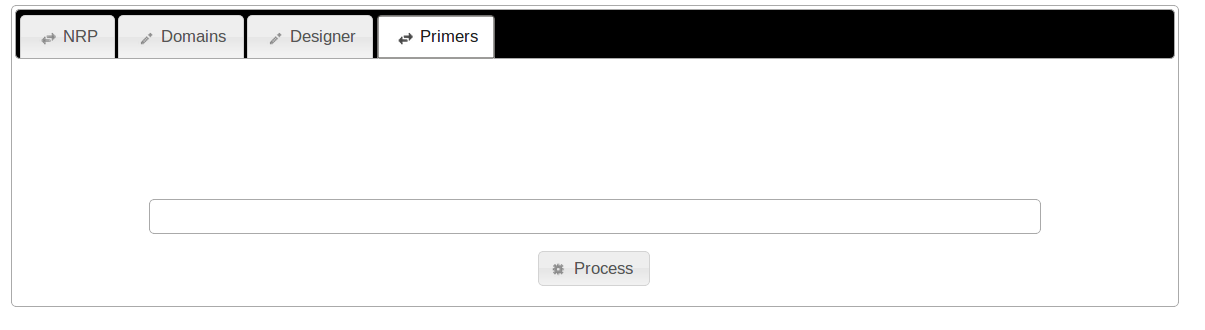
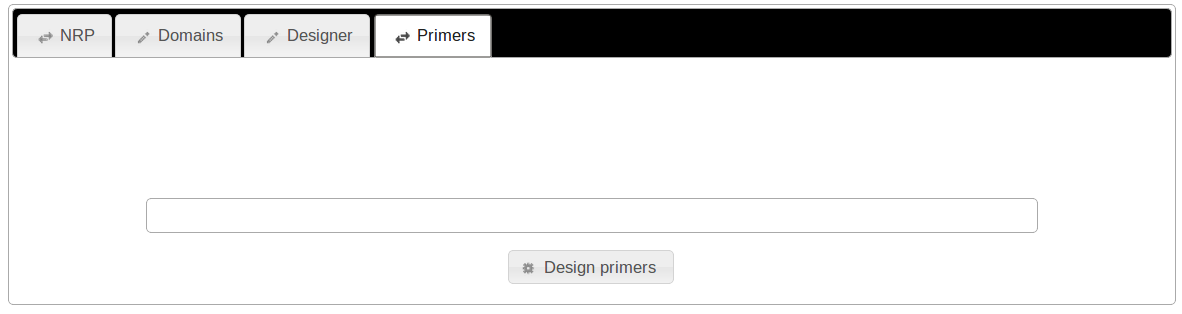
clean up and improve web interface

Changed region(s): [[0.0, 0.0, 1.0, 0.2006], [0.0, 0.6879, 1.0, 0.9745], [0.1218, 0.6019, 0.8832, 0.6592]]

diff --git a/Django/DjangoNrps/templates/home.html b/Django/DjangoNrps/templates/home.html
@@ -5,7 +5,7 @@
 
 {% block content %}
     <div class="row-fluid hero-unit" style="box-sizing:border-box;-moz-box-sizing:border-box;">
-    <div class="span6">
+    <div class="span12">
     <h1>NRPSDesigner</h1>
     <p>    Welcome to the NRPSDesigner of <a href="http://2013.igem.org/Team:Heidelberg"> iGEM Team Heidelberg 2013! </a> </p>
 
@@ -15,28 +15,32 @@
 <p>In order to get started, please choose one of the options below:
     </p>
     <div class="btn-group">
-
-   <a href="{% url 'registration_register' %}" class="btn btn-large">  <i class="icon-heart"> </i> Register
+     <a href="{% url 'peptides' %}" class="btn btn-large">  <i class="icon-pencil"> </i> Design new NRP
     </a>
-    <a href="http://2013.igem.org/Team:Heidelberg/Project_Software" class="btn btn-large"> <i class="icon-book"> </i>   Read about it
+    <a href="{% url 'sample_peptide' %}" class="btn btn-large">  <i class="icon-star"> </i> Sample NRP
     </a>
+   <a href="{% url 'registration_register' %}" class="btn btn-large">  <i class="icon-user"> </i> Register
+    </a>
+    <!-- <a href="http://2013.igem.org/Team:Heidelberg/Project_Software" class="btn btn-large"> <i class="icon-book"> </i>   Read about it
+    </a> --> 
     </div>
     </div>
     {% else %}
    <p>Thanks for logging in, {{ user.username }}! </p>
     <div class="btn-group">
 
-   <a href="{% url 'peptides' %}" class="btn btn-large">  <i class="icon-ok"> </i> Start designing
+   <a href="{% url 'peptides' %}" class="btn btn-large">  <i class="icon-pencil"> </i> Continue designing
     </a>
-    <a href="http://2013.igem.org/Team:Heidelberg/Project_Software" class="btn btn-large"> <i class="icon-book"> </i>   Read about it
+     
+    <a href="{% url 'documentation' %}" class="btn btn-large"> <i class="icon-book"> </i>   Read about it
     </a>
 
     </div>
     </div>
 
     {% endif %}
-    <div class="span6">
+    <!-- <div class="span6">
     <iframe width="640" height="360" src="//www.youtube.com/embed/EntKLw788cs?feature=player_detailpage" frameborder="0" allowfullscreen></iframe>
-    </div>
+    </div> -->
     </div>
 {% endblock %}

diff --git a/Django/DjangoNrps/templates/base.html b/Django/DjangoNrps/templates/base.html
@@ -181,10 +181,28 @@ function checkCeleryStatus(taskId, callbackProgress, callbackError, callbackSucc
 					</ul>
 				</span>
 				{% else %}
-				<span class="user_tab"><a href="{% url 'auth_login' %}" id="user_tab_login" class="user_tab">Log in</a></span>
-				<span class="user_tab"><a href="{% url 'registration_register' %}" id="user_tab_register" class="user_tab">Register</a></span>
+                <span class="user_tab drop">
+                <a href="{% url 'userprofile' %}" id="user_tab_profile" class="user_tab">Account</a>
+                    <ul class="ui-widget-content ui-corner-bottom">
+                        <li><a <a href="{% url 'auth_login' %}">Login</a></li>
+                        <li><a href="{% url 'registration_register' %}">Register</a></li>
+                    </ul>
+                </span>
+
+				<!--<span class="user_tab"><a href="{% url 'auth_login' %}" id="user_tab_login" class="user_tab">Log in</a></span>
+				<span class="user_tab"><a href="{% url 'registration_register' %}" id="user_tab_register" class="user_tab">Register</a></span> -->
 				{% endif %}
-                <span class="user_tab"><a href="{% url 'documentation' %}" id="user_tab_help" class="user_tab">Help</a></span>
+                <span class="user_tab drop">
+                    <a href="#" id="user_tab_help" class="user_tab">Help</a>
+                    <ul class="ui-widget-content ui-corner-bottom">
+                        <li><a href="{% url 'documentation' %}"> Documentation</a></li>
+                        <li><a href="{% url 'video_tutorial' %}">Video tutorials</a></li>
+                        <li><a href="http://2013.igem.org/Team:Heidelberg/Project_Software">iGEM Wiki</a></li>
+                    </ul>
+                </span>
+
+                <!--<span class="user_tab"><a href="{% url 'documentation' %}" id="user_tab_help" class="user_tab">Help</a></span> -->
+
 				<span class="user_tab drop">
 					<a href="#" id="user_tab_tools" class="user_tab">Apps</a>
 					<ul class="ui-widget-content ui-corner-bottom">

diff --git a/Django/DjangoNrps/templates/documentation/documentation.html b/Django/DjangoNrps/templates/documentation/documentation.html
@@ -124,7 +124,7 @@
 
                      <img src={% static "images/documentation/designPrimer.png" %} />
 
-                    <p> Clicking on "Process primers", will calculate appropriate primers, as seen on the next screenshot: </p>
+                    <p> Clicking on "Design primers", will calculate appropriate primers, as seen on the next screenshot: </p>
 
                       <img src={% static "images/documentation/primerOverview.png" %} />
 
@@ -198,6 +198,12 @@
              <img src={% static "images/documentation/HMMoutput.png" %} />
 
              <p> Once this output has been returned, manual curation has to take place: This includes adding appropriate descriptions to the files, checking or adding specificities to the adenylation domains and checking domain boundaries, for example with the in-built multiple sequence alignment. Pressing on the "Save cds and domains!" button results in the storage of all the previously entered and predicted information to the NRPSDesigner database. </p>
+
+             <h2> Privacy </h2>
+              <p>
+             Every user’s submitted data is private and not viewable by anyone other than the user. In particular, for non-registered users, safety is ensured by assigning a random UUID (according to <a href="http://www.ietf.org/rfc/rfc4122.txt"> RFC4122 </a>) to designed NRP constructs. In the case of registered users, both the identity of the user and the UUID of the constructs are used as safety checks. Also, the in-built authentication system encrypts the password of all registered users using PBKDF2 (Password-Based Key Derivation Function 2).
+             </p>
+
             <h2> Contact </h2>
 
             <p> Do you have further questions, feedback or suggestions? Then please do not hesitate to contact Ilia Kats (kats@stud.uni-heidelberg.de), Nikos Ignatiadis (nikos.ignatiadis01@gmail.com) or Nils Kurzawa (nilskurzawa@yahoo.de). </p>

diff --git a/Django/DjangoNrps/templates/documentation/video_tutorial.html b/Django/DjangoNrps/templates/documentation/video_tutorial.html
@@ -1,0 +1,18 @@
+{% extends "base.html" %}
+
+
+
+{% block content %}
+   
+   <div class="hero-unit">
+                <h1>NRPSDesigner Tutorials</h1>
+             <p> Below you can find a tutorial video explaining all the main functionalities of the NRPSDesigner (as of 29 October 2013). </p>
+               <iframe width="640" height="360" src="//www.youtube.com/embed/EntKLw788cs?feature=player_detailpage" frameborder="0" allowfullscreen></iframe>
+             </div>
+
+    <div class="span6">
+  
+    </div>
+
+
+{% endblock %}

diff --git a/Django/DjangoNrps/templates/gibson/designer.html b/Django/DjangoNrps/templates/gibson/designer.html
@@ -31,6 +31,14 @@ var gibthon_api_url = gibthon_base_url + 'api/';
 
 
 {% block content %}
+{% if not user.is_authenticated %}
+
+<div class="alert alert-info">
+  Hint: You can bookmark this page ({{ request.build_absolute_uri }}) in order to revisit your peptide at a later point or to check for job status if you have submitted a request to the server.
+
+</div>
+
+{% endif %}
 <div>
 
 	<div class="content center full-width">

diff --git a/Django/DjangoNrps/static/js/base.js b/Django/DjangoNrps/static/js/base.js
@@ -22,7 +22,7 @@ jQuery(document).ready(function() {
 	});
 	jQuery('#user_tab_help').button({
 		icons:{primary:'ui-icon-help',
-			  }
+			  secondary:'ui-icon-triangle-1-s'}
 	});
 	jQuery('#user_tab_tools').button({
 		icons:{primary:'ui-icon-wrench',

diff --git a/Django/DjangoNrps/templates/designerGui/use_tool.html b/Django/DjangoNrps/templates/designerGui/use_tool.html
@@ -390,6 +390,10 @@
 </style>
 {% endblock %}
 {% block content %}
+
+
+
+
 <div style="text-align:center" class="span12">
         <a class="btn" onclick="introJs().start();"><i class="icon icon-info-sign"></i> Lead me around</a>
     </div>

diff --git a/Django/DjangoNrps/templates/gibson/process.html b/Django/DjangoNrps/templates/gibson/process.html
@@ -17,7 +17,7 @@
         </ul>
     {% endif %}
 	<div style='text-align:center;margin-top:1em;'>
-		<button id='process_btn'>Process</button>
+		<button id='process_btn'>Design primers</button>
 	</div>
 </div>
 

diff --git a/Django/DjangoNrps/designerGui/views.py b/Django/DjangoNrps/designerGui/views.py
@@ -64,12 +64,15 @@ def getConstruct(request, uuid):
                             'primerTabLink': primerTabLink,
                             'domainSequenceTablLink': domainSequenceTabLink})
 
-def nrpDesigner(request, uuid):
+def nrpDesigner(request, uuid, sample=False):
     nrp = get_nrp(request.user, uuid)
     if not nrp and request.user.is_authenticated():
         return HttpResponseNotFound()
     if not nrp:
         nrp = NRP(owner=None, uuid=uuid)
+        if sample:
+            nrp.save()
+            nrp.makeSample()
     t = loader.get_template('gibson/designer.html')
     c = RequestContext(request, {'nrp': nrp})
     return HttpResponse(t.render(c))
@@ -103,14 +106,18 @@ def peptide_delete(request, uuid):
     else:
         return HttpResponseNotFound()
 
-def nrpListView(request):
+def nrpListView(request, sample=False):
     if request.user.is_authenticated():
         t = loader.get_template('designerGui/peptides.html')
         c = RequestContext(request, {'NRPform': NRPForm(prefix='nrp'), 'title': 'NRPSDesigner', 'nrpList': NRP.objects.filter(owner=request.user)})
         return HttpResponse(t.render(c))
     else:
         uuid = str(uuid4())
-        return redirect('nrpDesigner', uuid)
+        if not sample:
+            return redirect('nrpDesigner', uuid)
+        else:
+            return redirect('sampleNrpDesigner', uuid)
+
 
 def SpeciesListView(request, uuid):
     nrp = get_nrp(request.user, uuid)

diff --git a/Django/DjangoNrps/designerGui/urls.py b/Django/DjangoNrps/designerGui/urls.py
@@ -9,9 +9,11 @@ uuidregex = r'[a-f0-9]{8}-[a-f0-9]{4}-[a-f0-9]{4}-[a-f0-9]{4}-[a-f0-9]{12}'
 
 urlpatterns = patterns('',
 					url(r'^$', nrpListView,name="peptides"),
+					url(r'^sample$', nrpListView, {'sample':True}, name="sample_peptide" ),
 					url(r'^add$', peptide_add, name="peptide_add"),
 					url(r'^(?P<uuid>' + uuidregex + ')/delete/$', peptide_delete, name = "peptide_delete"),
 					url(r'^(?P<uuid>' + uuidregex + ')/$', nrpDesigner, name = "nrpDesigner"),
+					url(r'^(?P<uuid>' + uuidregex + ')/sample$', nrpDesigner, {'sample':True}, name = "sampleNrpDesigner"),
 					url(r'^(?P<uuid>' + uuidregex + ')/library/$', createLibrary, name="createLibrary"),
 					url(r'^(?P<uuid>' + uuidregex + ')/library/process/$', processLibrary, name="processLibrary"),
 					url(r'^(?P<uuid>' + uuidregex + ')/library/view/$', viewLibrary, name="viewLibrary"),

diff --git a/Django/DjangoNrps/designerGui/models.py b/Django/DjangoNrps/designerGui/models.py
@@ -401,6 +401,11 @@ class NRP(models.Model):
             raise Exception("NRPSDesigner returned errorcode %d: %s" % (child.returncode, lasterror[0]))
         return xmlout[0]
 
+    def makeSample(self):
+        for count, monomerId in enumerate([6,19,14]):
+            monomer = Substrate.objects.get(pk=int(monomerId))
+            so = SubstrateOrder.objects.create(nrp= self, substrate = monomer, order = count)
+
 def readFrom(file, callback):
     try:
         lines = file.read()

diff --git a/Django/DjangoNrps/documentation/urls.py b/Django/DjangoNrps/documentation/urls.py
@@ -1,7 +1,8 @@
 from django.conf.urls import patterns, url
 
-from documentation.views import DocumentationView
+from documentation.views import DocumentationView, VideoTutorialView
 
 urlpatterns = patterns('',
-    url(r'^$', DocumentationView.as_view(), name='documentation'),
+	url(r'^video/$', VideoTutorialView.as_view(), name='video_tutorial'),
+	url(r'^$', DocumentationView.as_view(), name='documentation'),
 )
